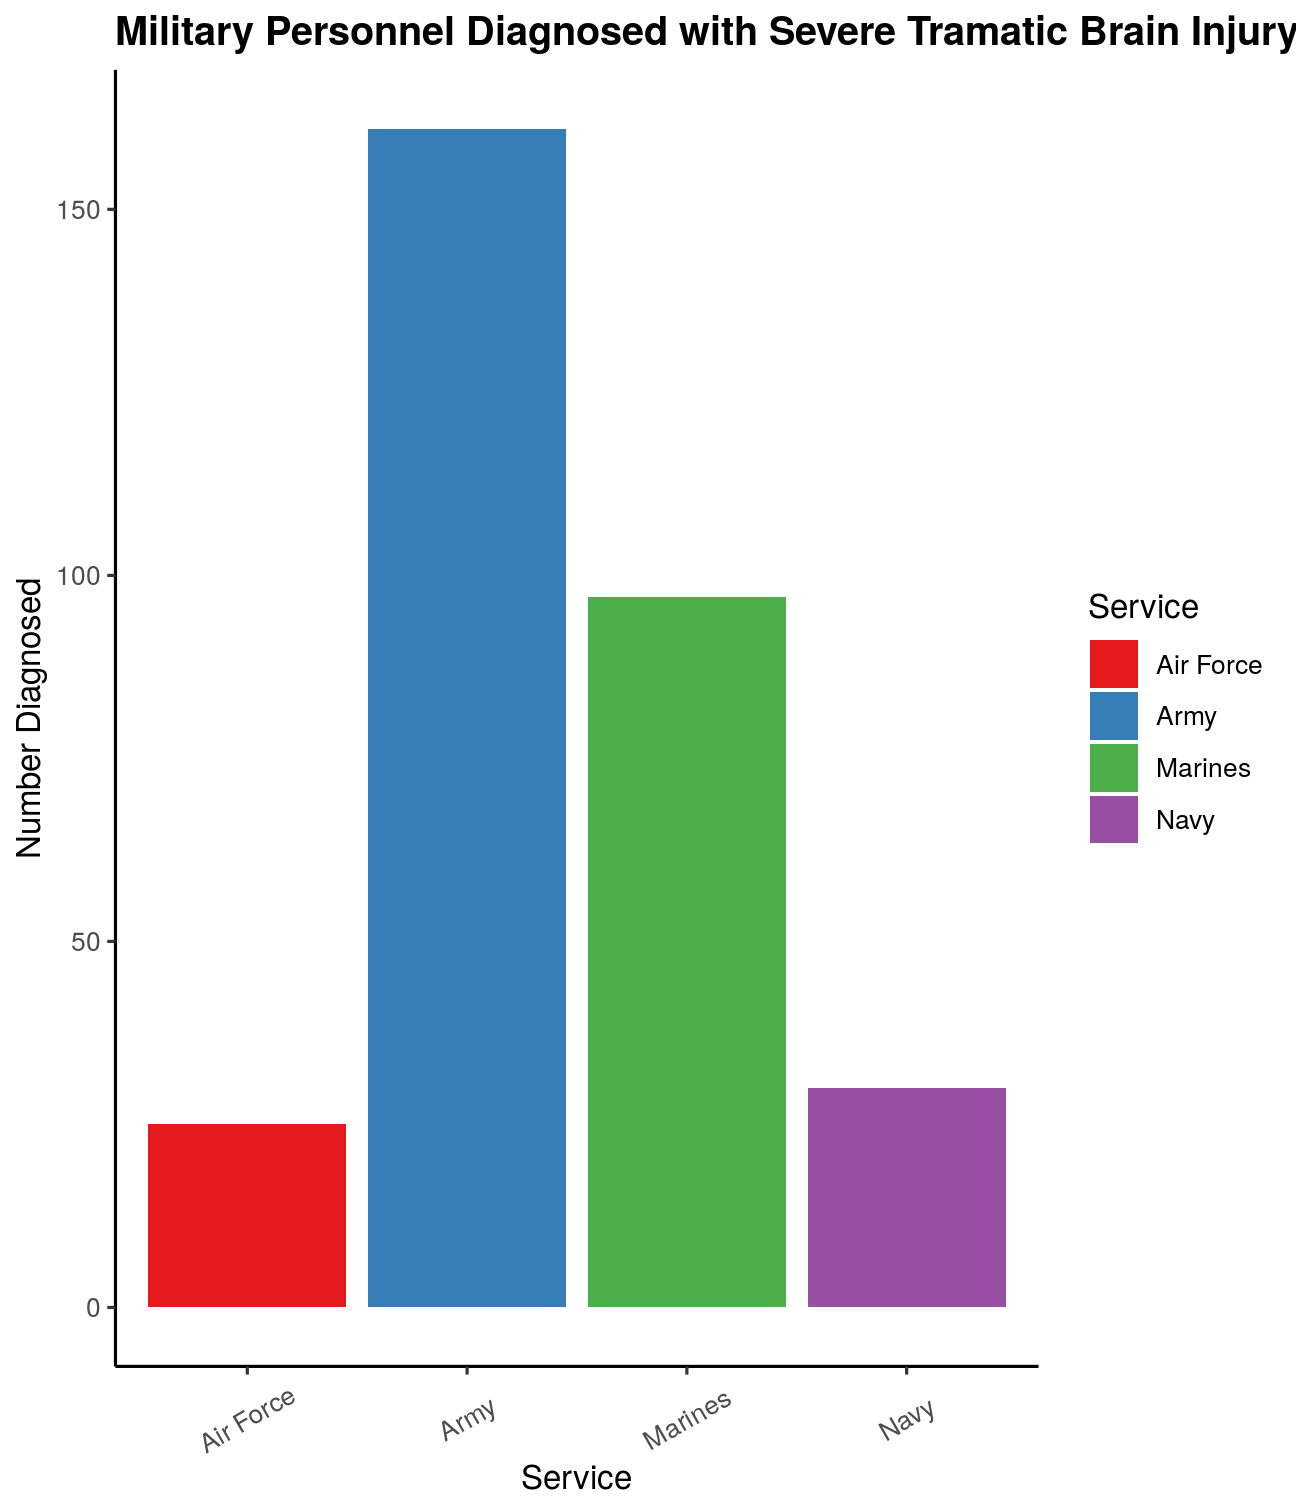
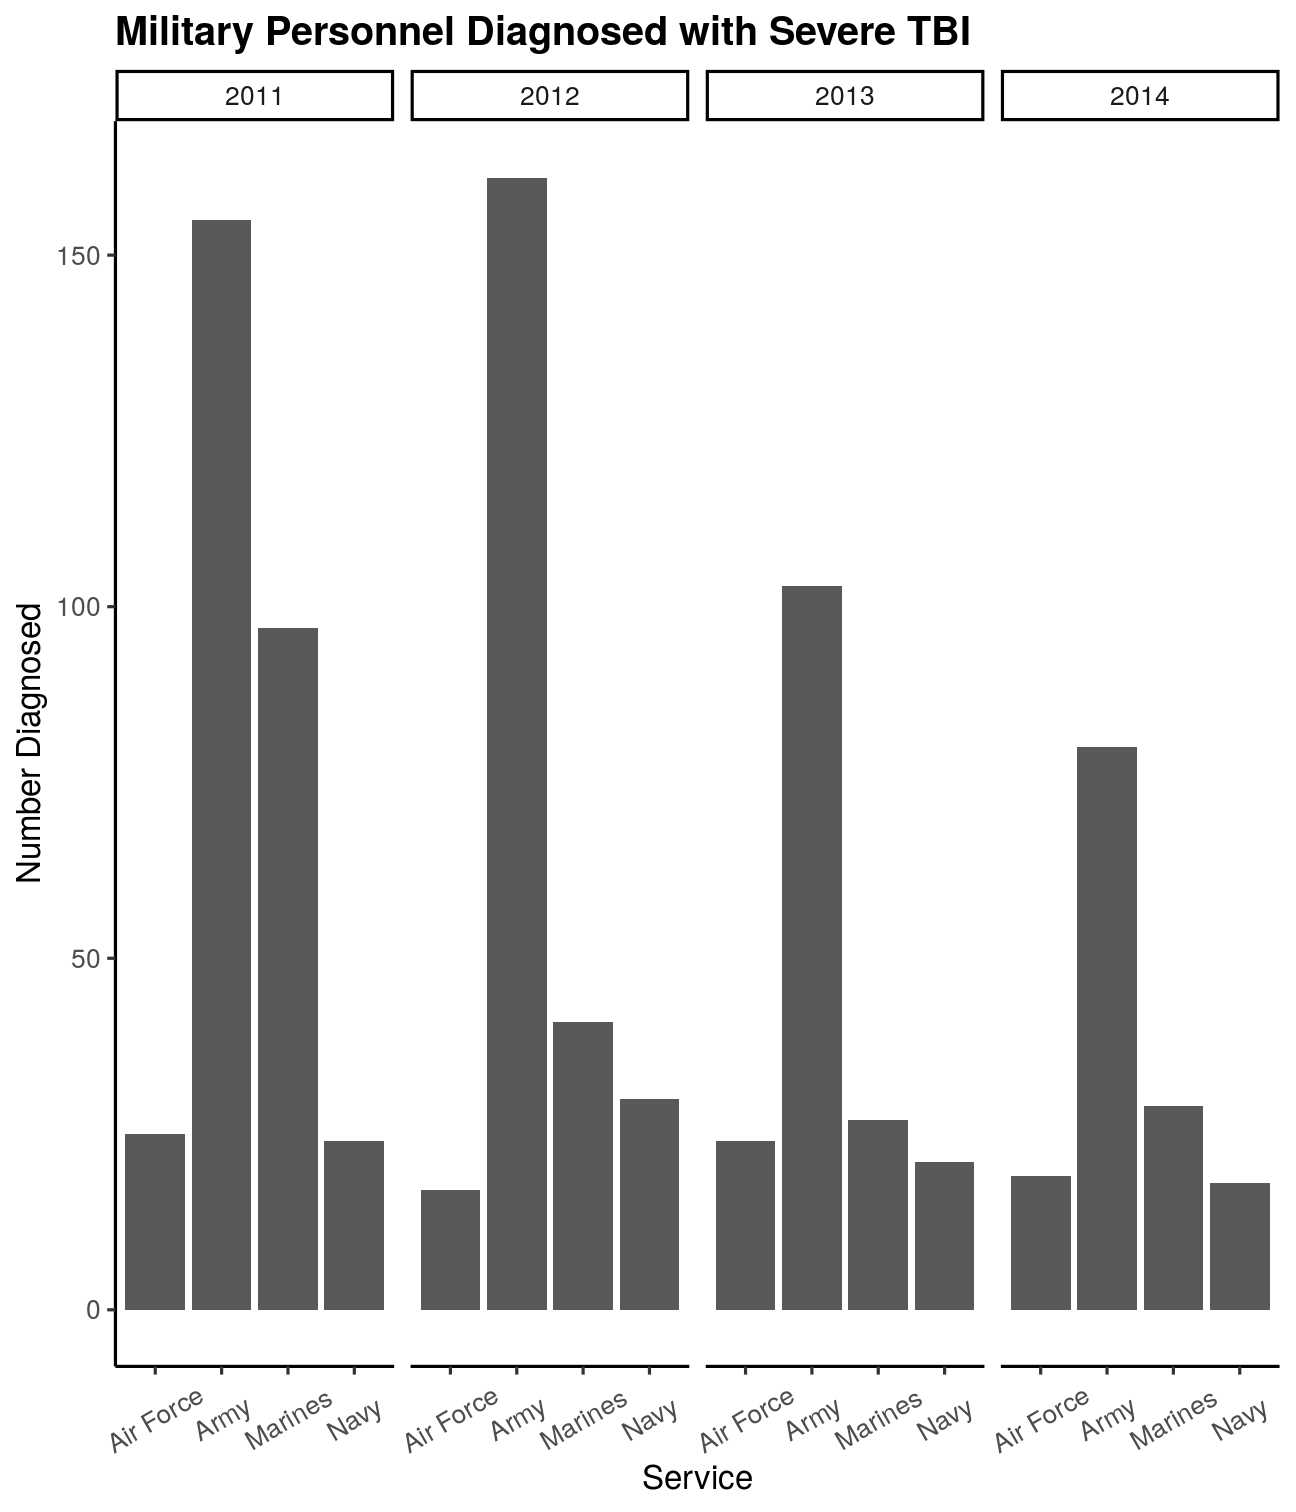
Edited title and changed fill at the end

diff --git a/tidy_flipbook.html b/tidy_flipbook.html
@@ -125,8 +125,8 @@ ggplot(tidy_military) +
   aes(x = service) +  
 #add y-axis
   aes(y = diagnosed) +  
-#fill by service
-* aes(fill = service)
+#change theme
+* theme_classic()
 ```
 ]]
 .column[.content[
@@ -146,10 +146,10 @@ ggplot(tidy_military) +
   aes(x = service) +  
 #add y-axis
   aes(y = diagnosed) +  
-#fill by service
-  aes(fill = service) +  
 #change theme
-* theme_classic()
+  theme_classic() +  
+#change colors
+* scale_fill_brewer(palette = "Set1")
 ```
 ]]
 .column[.content[
@@ -169,12 +169,12 @@ ggplot(tidy_military) +
   aes(x = service) +  
 #add y-axis
   aes(y = diagnosed) +  
-#fill by service
-  aes(fill = service) +  
 #change theme
   theme_classic() +  
 #change colors
-* scale_fill_brewer(palette = "Set1")
+  scale_fill_brewer(palette = "Set1") +  
+#make columns next to each other
+* geom_col(position = "dodge")
 ```
 ]]
 .column[.content[
@@ -194,14 +194,14 @@ ggplot(tidy_military) +
   aes(x = service) +  
 #add y-axis
   aes(y = diagnosed) +  
-#fill by service
-  aes(fill = service) +  
 #change theme
   theme_classic() +  
 #change colors
   scale_fill_brewer(palette = "Set1") +  
 #make columns next to each other
-* geom_col(position = "dodge")
+  geom_col(position = "dodge") +  
+#x and y labels
+* labs(x= "Service", y= "Number Diagnosed")
 ```
 ]]
 .column[.content[
@@ -221,8 +221,6 @@ ggplot(tidy_military) +
   aes(x = service) +  
 #add y-axis
   aes(y = diagnosed) +  
-#fill by service
-  aes(fill = service) +  
 #change theme
   theme_classic() +  
 #change colors
@@ -230,7 +228,9 @@ ggplot(tidy_military) +
 #make columns next to each other
   geom_col(position = "dodge") +  
 #x and y labels
-* labs(x= "Service", y= "Number Diagnosed", fill = "Service")
+  labs(x= "Service", y= "Number Diagnosed") +  
+# title label
+* labs(title= "Military Personnel Diagnosed with Severe TBI")
 ```
 ]]
 .column[.content[
@@ -250,8 +250,6 @@ ggplot(tidy_military) +
   aes(x = service) +  
 #add y-axis
   aes(y = diagnosed) +  
-#fill by service
-  aes(fill = service) +  
 #change theme
   theme_classic() +  
 #change colors
@@ -259,9 +257,11 @@ ggplot(tidy_military) +
 #make columns next to each other
   geom_col(position = "dodge") +  
 #x and y labels
-  labs(x= "Service", y= "Number Diagnosed", fill = "Service") +  
+  labs(x= "Service", y= "Number Diagnosed") +  
 # title label
-* labs(title= "Military Personnel Diagnosed with Severe Tramatic Brain Injury")
+  labs(title= "Military Personnel Diagnosed with Severe TBI") +  
+# bold title
+* theme(plot.title = element_text(face = "bold"))
 ```
 ]]
 .column[.content[
@@ -281,8 +281,6 @@ ggplot(tidy_military) +
   aes(x = service) +  
 #add y-axis
   aes(y = diagnosed) +  
-#fill by service
-  aes(fill = service) +  
 #change theme
   theme_classic() +  
 #change colors
@@ -290,11 +288,13 @@ ggplot(tidy_military) +
 #make columns next to each other
   geom_col(position = "dodge") +  
 #x and y labels
-  labs(x= "Service", y= "Number Diagnosed", fill = "Service") +  
+  labs(x= "Service", y= "Number Diagnosed") +  
 # title label
-  labs(title= "Military Personnel Diagnosed with Severe Tramatic Brain Injury") +  
+  labs(title= "Military Personnel Diagnosed with Severe TBI") +  
 # bold title
-* theme(plot.title = element_text(face = "bold"))
+  theme(plot.title = element_text(face = "bold")) +  
+# x-axis angle of 30 and shift words down 0.5
+* theme(axis.text.x = element_text(angle = 30, vjust = 0.5))
 ```
 ]]
 .column[.content[
@@ -314,8 +314,6 @@ ggplot(tidy_military) +
   aes(x = service) +  
 #add y-axis
   aes(y = diagnosed) +  
-#fill by service
-  aes(fill = service) +  
 #change theme
   theme_classic() +  
 #change colors
@@ -323,13 +321,15 @@ ggplot(tidy_military) +
 #make columns next to each other
   geom_col(position = "dodge") +  
 #x and y labels
-  labs(x= "Service", y= "Number Diagnosed", fill = "Service") +  
+  labs(x= "Service", y= "Number Diagnosed") +  
 # title label
-  labs(title= "Military Personnel Diagnosed with Severe Tramatic Brain Injury") +  
+  labs(title= "Military Personnel Diagnosed with Severe TBI") +  
 # bold title
   theme(plot.title = element_text(face = "bold")) +  
 # x-axis angle of 30 and shift words down 0.5
-* theme(axis.text.x = element_text(angle = 30, vjust = 0.5))
+  theme(axis.text.x = element_text(angle = 30, vjust = 0.5)) +  
+# facet by year
+* facet_grid(~year)
 ```
 ]]
 .column[.content[
@@ -349,8 +349,6 @@ ggplot(tidy_military) +
   aes(x = service) +  
 #add y-axis
   aes(y = diagnosed) +  
-#fill by service
-  aes(fill = service) +  
 #change theme
   theme_classic() +  
 #change colors
@@ -358,23 +356,105 @@ ggplot(tidy_military) +
 #make columns next to each other
   geom_col(position = "dodge") +  
 #x and y labels
-  labs(x= "Service", y= "Number Diagnosed", fill = "Service") +  
+  labs(x= "Service", y= "Number Diagnosed") +  
 # title label
-  labs(title= "Military Personnel Diagnosed with Severe Tramatic Brain Injury") +  
+  labs(title= "Military Personnel Diagnosed with Severe TBI") +  
 # bold title
   theme(plot.title = element_text(face = "bold")) +  
 # x-axis angle of 30 and shift words down 0.5
   theme(axis.text.x = element_text(angle = 30, vjust = 0.5)) +  
 # facet by year
-* facet_grid(~year)
+  facet_grid(~year) +  
+#fill by service
+* aes(fill = service)
 ```
 ]]
 .column[.content[
 &lt;img src="tidy_flipbook_files/figure-html/brain_plot_auto_12_output-1.png" width="432" /&gt;
 ]]
+---
+class: split-40
+count: false
+ 
+
+ 
+.column[.content[
+
+```r
+ggplot(tidy_military) +  
+#add x-axis
+  aes(x = service) +  
+#add y-axis
+  aes(y = diagnosed) +  
+#change theme
+  theme_classic() +  
+#change colors
+  scale_fill_brewer(palette = "Set1") +  
+#make columns next to each other
+  geom_col(position = "dodge") +  
+#x and y labels
+  labs(x= "Service", y= "Number Diagnosed") +  
+# title label
+  labs(title= "Military Personnel Diagnosed with Severe TBI") +  
+# bold title
+  theme(plot.title = element_text(face = "bold")) +  
+# x-axis angle of 30 and shift words down 0.5
+  theme(axis.text.x = element_text(angle = 30, vjust = 0.5)) +  
+# facet by year
+  facet_grid(~year) +  
+#fill by service
+  aes(fill = service) +  
+# label of legend
+* labs(fill= "Service")
+```
+]]
+.column[.content[
+&lt;img src="tidy_flipbook_files/figure-html/brain_plot_auto_13_output-1.png" width="432" /&gt;
+]]
+---
+class: split-40
+count: false
+ 
+
+ 
+.column[.content[
+
+```r
+ggplot(tidy_military) +  
+#add x-axis
+  aes(x = service) +  
+#add y-axis
+  aes(y = diagnosed) +  
+#change theme
+  theme_classic() +  
+#change colors
+  scale_fill_brewer(palette = "Set1") +  
+#make columns next to each other
+  geom_col(position = "dodge") +  
+#x and y labels
+  labs(x= "Service", y= "Number Diagnosed") +  
+# title label
+  labs(title= "Military Personnel Diagnosed with Severe TBI") +  
+# bold title
+  theme(plot.title = element_text(face = "bold")) +  
+# x-axis angle of 30 and shift words down 0.5
+  theme(axis.text.x = element_text(angle = 30, vjust = 0.5)) +  
+# facet by year
+  facet_grid(~year) +  
+#fill by service
+  aes(fill = service) +  
+# label of legend
+  labs(fill= "Service") +  
+#change legend position
+* theme(legend.position = "bottom")
+```
+]]
+.column[.content[
+&lt;img src="tidy_flipbook_files/figure-html/brain_plot_auto_14_output-1.png" width="432" /&gt;
+]]
 
 ---
-This tidy tuesday I learned how to use flipbookr in preperation for making a flipbook for my mid term project. This expiernce showed me how to download flipbookr and how code should be implemented line by line for the flipbook to work.
+This tidy tuesday I learned how to use flipbookr in preperation for making a flipbook for my midterm project. This expiernce showed me how to download flipbookr and how code should be implemented line by line for the flipbook to work.
     </textarea>
 <style data-target="print-only">@media screen {.remark-slide-container{display:block;}.remark-slide-scaler{box-shadow:none;}}</style>
 <script src="https://remarkjs.com/downloads/remark-latest.min.js"></script>
